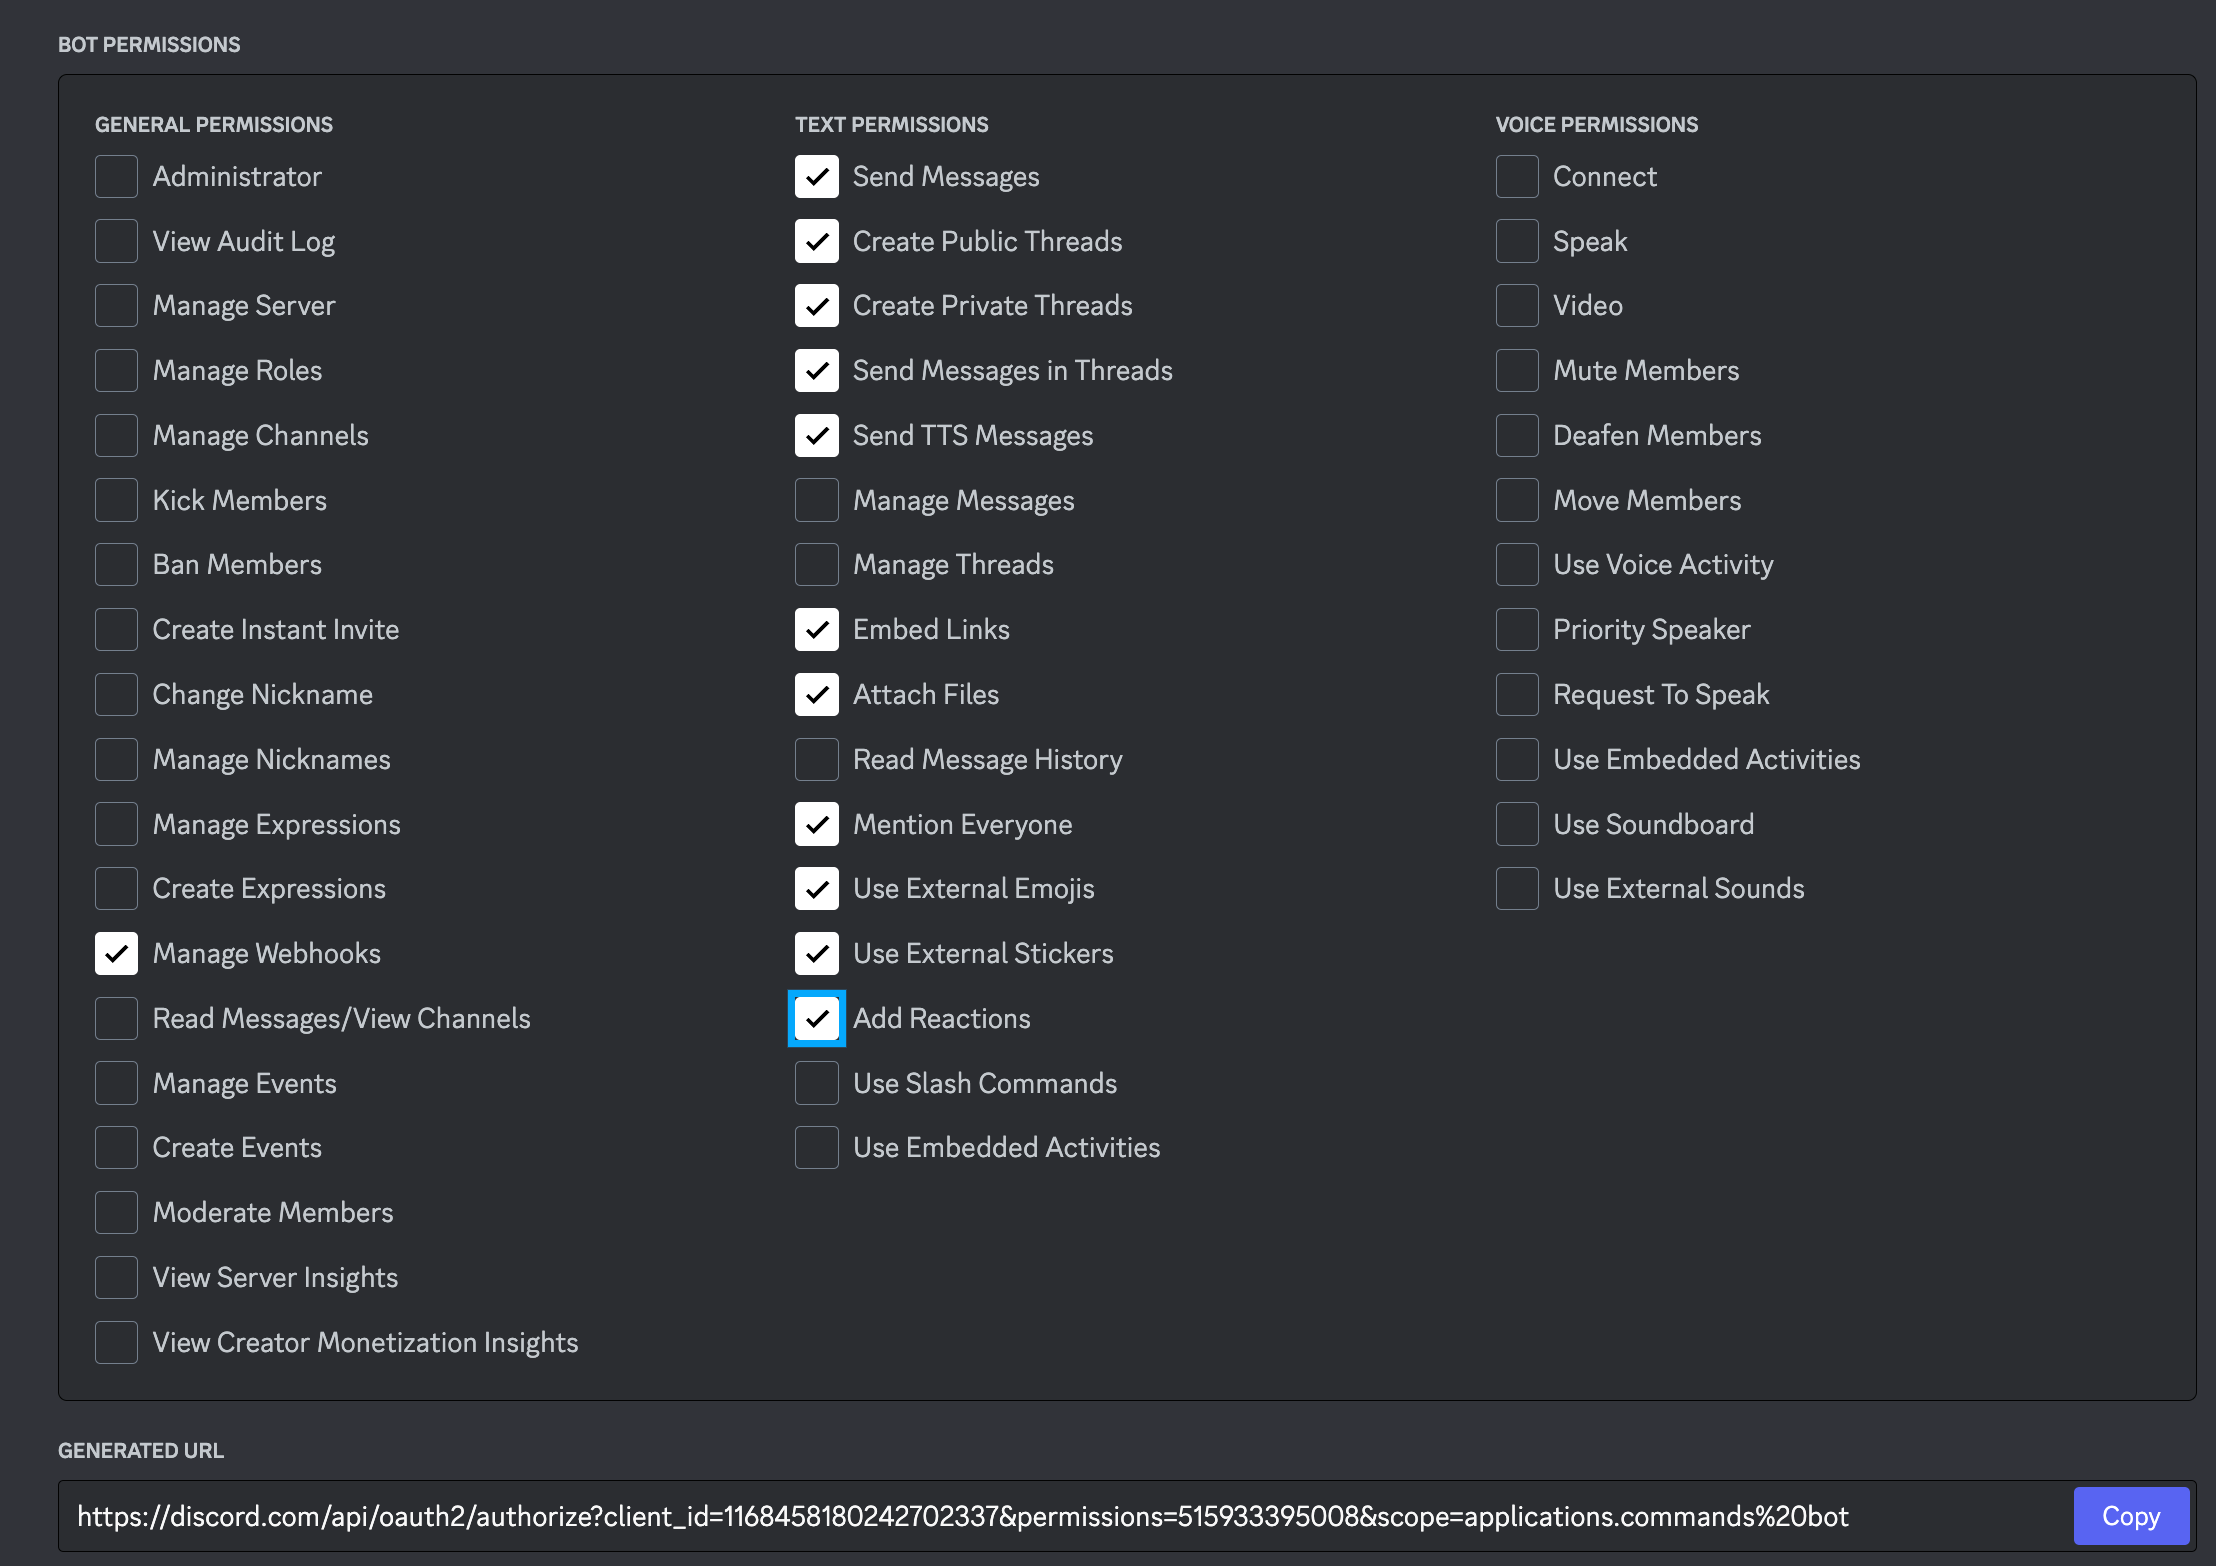
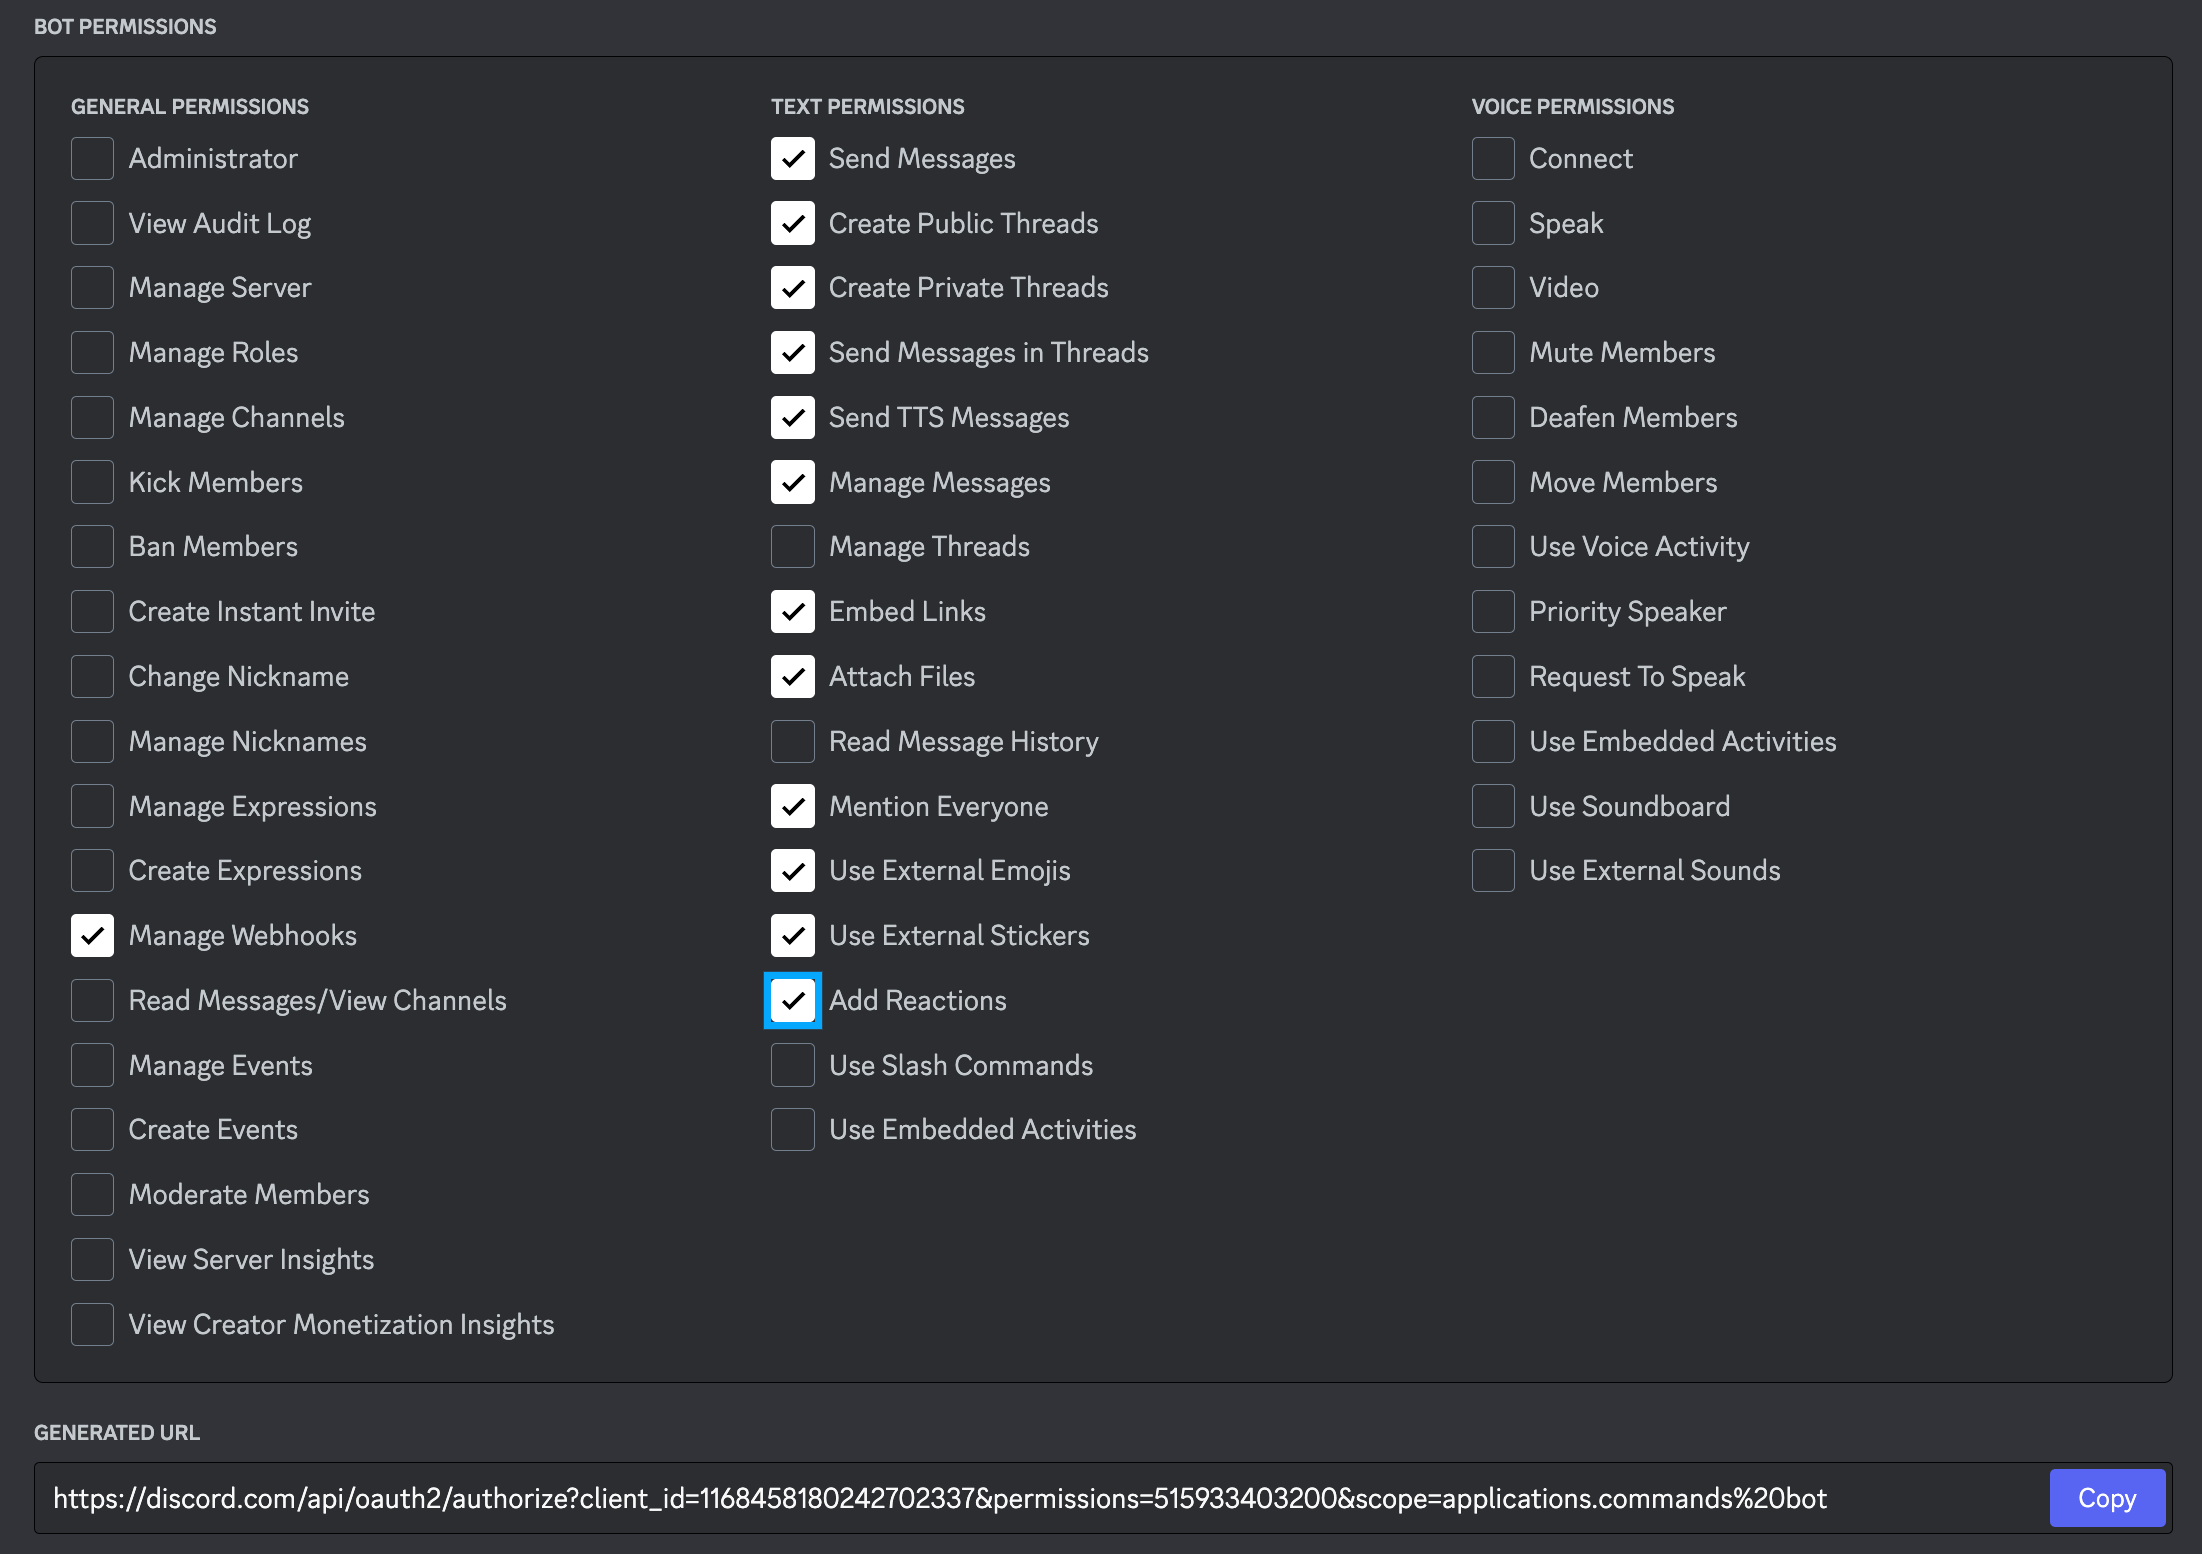
added nickname and delete config

diff --git a/src/slash-commands/repost.ts b/src/slash-commands/repost.ts
@@ -153,6 +153,31 @@ const command: SlashCommand = {
         )
         .addSubcommand(
             new SlashCommandSubcommandBuilder()
+                .setName(`update_nickname`)
+                .setDescription(`change nickname settings in repost configuration`)
+                .addStringOption((option) =>
+                    option.setName("repost_id").setDescription("the repost id").setRequired(true)
+                )
+                .addBooleanOption((option) =>
+                    option
+                        .setName("nickname")
+                        .setDescription("add nickname of message author to reposted message")
+                        .setRequired(true)
+                )
+        )
+        .addSubcommand(
+            new SlashCommandSubcommandBuilder()
+                .setName(`update_delete`)
+                .setDescription(`change delete settings in repost configuration`)
+                .addStringOption((option) =>
+                    option.setName("repost_id").setDescription("the repost id").setRequired(true)
+                )
+                .addBooleanOption((option) =>
+                    option.setName("delete").setDescription("delete original message").setRequired(true)
+                )
+        )
+        .addSubcommand(
+            new SlashCommandSubcommandBuilder()
                 .setName(`create_replacement`)
                 .setDescription(`add content replacement in repost configuration`)
                 .addStringOption((option) =>
@@ -473,6 +498,66 @@ const command: SlashCommand = {
                 where: { cuid, sourceGuildID: interaction.guildId! },
                 data: {
                     pinMessages
+                }
+            });
+            const content = `${userMention(interaction.user.id)} updated a repost configuration: ${inlineCode(cuid)}`;
+            await interaction.editReply({ content });
+            await log({ title: "Repost Updated", color: "Yellow", content });
+        } else if (subcommand == "update_nickname") {
+            const cuid = interaction.options.getString("repost_id", true);
+            const repost = await interaction.client.prisma.repost.findUnique({
+                where: {
+                    cuid,
+                    sourceGuildID: interaction.guildId!
+                }
+            });
+
+            if (!repost) {
+                await interaction.editReply({
+                    content: `${cuid} is an invalid repost`
+                });
+                setTimeout(async () => {
+                    await interaction.deleteReply().catch(console.error);
+                }, 3 * 1000);
+                return;
+            }
+
+            const nickname = await interaction.options.getBoolean("nickname", true);
+
+            await interaction.client.prisma.repost.update({
+                where: { cuid, sourceGuildID: interaction.guildId! },
+                data: {
+                    nickname
+                }
+            });
+            const content = `${userMention(interaction.user.id)} updated a repost configuration: ${inlineCode(cuid)}`;
+            await interaction.editReply({ content });
+            await log({ title: "Repost Updated", color: "Yellow", content });
+        } else if (subcommand == "update_delete") {
+            const cuid = interaction.options.getString("repost_id", true);
+            const repost = await interaction.client.prisma.repost.findUnique({
+                where: {
+                    cuid,
+                    sourceGuildID: interaction.guildId!
+                }
+            });
+
+            if (!repost) {
+                await interaction.editReply({
+                    content: `${cuid} is an invalid repost`
+                });
+                setTimeout(async () => {
+                    await interaction.deleteReply().catch(console.error);
+                }, 3 * 1000);
+                return;
+            }
+
+            const deleteMessage = await interaction.options.getBoolean("delete", true);
+
+            await interaction.client.prisma.repost.update({
+                where: { cuid, sourceGuildID: interaction.guildId! },
+                data: {
+                    deleteMessage
                 }
             });
             const content = `${userMention(interaction.user.id)} updated a repost configuration: ${inlineCode(cuid)}`;

diff --git a/src/events/messageCreate.ts b/src/events/messageCreate.ts
@@ -7,7 +7,9 @@ import {
     Message,
     MessageActionRowComponent,
     TextChannel,
-    WebhookClient
+    WebhookClient,
+    bold,
+    userMention
 } from "discord.js";
 import { BotEvent } from "../types";
 import { delay } from "../utils/delay";
@@ -61,6 +63,13 @@ const event: BotEvent = {
                             content = content.replace(replacement.find, replacement.replace);
                         }
 
+                        // add nickname for webhook messages
+                        if (repost.nickname && message.webhookId) {
+                            const webhook = await message.fetchWebhook();
+                            const nickname = `${bold(webhook.name)}`;
+                            content = `${nickname}\n${content}`;
+                        }
+
                         if (repost.destinationType == "channel") {
                             // establish destination
                             const guild = await client.guilds.fetch(repost.destinationGuildID!);
@@ -68,6 +77,18 @@ const event: BotEvent = {
 
                             const channel = (await guild.channels.fetch(repost.destinationChannelID!)) as TextChannel;
                             if (!channel) throw Error("invalid channel");
+
+                            // add nickname for member messages
+                            if (repost.nickname && !message.webhookId) {
+                                const member = await guild.members.fetch(message.author.id);
+                                if (member) {
+                                    const nickname = `${userMention(member.id)}`;
+                                    content = `${nickname}\n${content}`;
+                                } else {
+                                    const nickname = `${bold(message.member!.displayName)}`;
+                                    content = `${nickname}\n${content}`;
+                                }
+                            }
 
                             let msg: Message;
                             if (content == "") {
@@ -80,11 +101,21 @@ const event: BotEvent = {
                             // establish destination
                             const webhook = new WebhookClient({ url: repost.destinationWebhookURL! });
 
+                            // add nickname for member messages
+                            if (repost.nickname && !message.webhookId) {
+                                const nickname = `${bold(message.member!.displayName)}`;
+                                content = `${nickname}\n${content}`;
+                            }
+
                             if (content == "") {
                                 await webhook.send({ components, embeds, files });
                             } else {
                                 await webhook.send({ content, components, embeds, files });
                             }
+                        }
+
+                        if (repost.deleteMessage && message.deletable) {
+                            await message.delete().catch(console.error);
                         }
                         return resolve();
                     } catch (err) {

diff --git a/README.md b/README.md
@@ -24,9 +24,10 @@ In order to work with this bot, one needs sufficient knowledge in Javascript/ Ty
 
 -   Save the `TOKEN` and `APPLICATION ID` from the portal, as this will be used later
 
-3. Create a bot with the following scopes and permissions
+3. Create a bot with the following scopes and permissions\*
    ![scopes](public/scopes.png)
    ![perms](public/perms.png)
+   \*ensure that the bot has `MANAGE_MESSAGES` and `MANAGE_WEBHOOKS` perms as they are needed for the bot features
 4. Use the generated invite link and add the bot with the permissions in your desired discord servers
 
 ### Database
